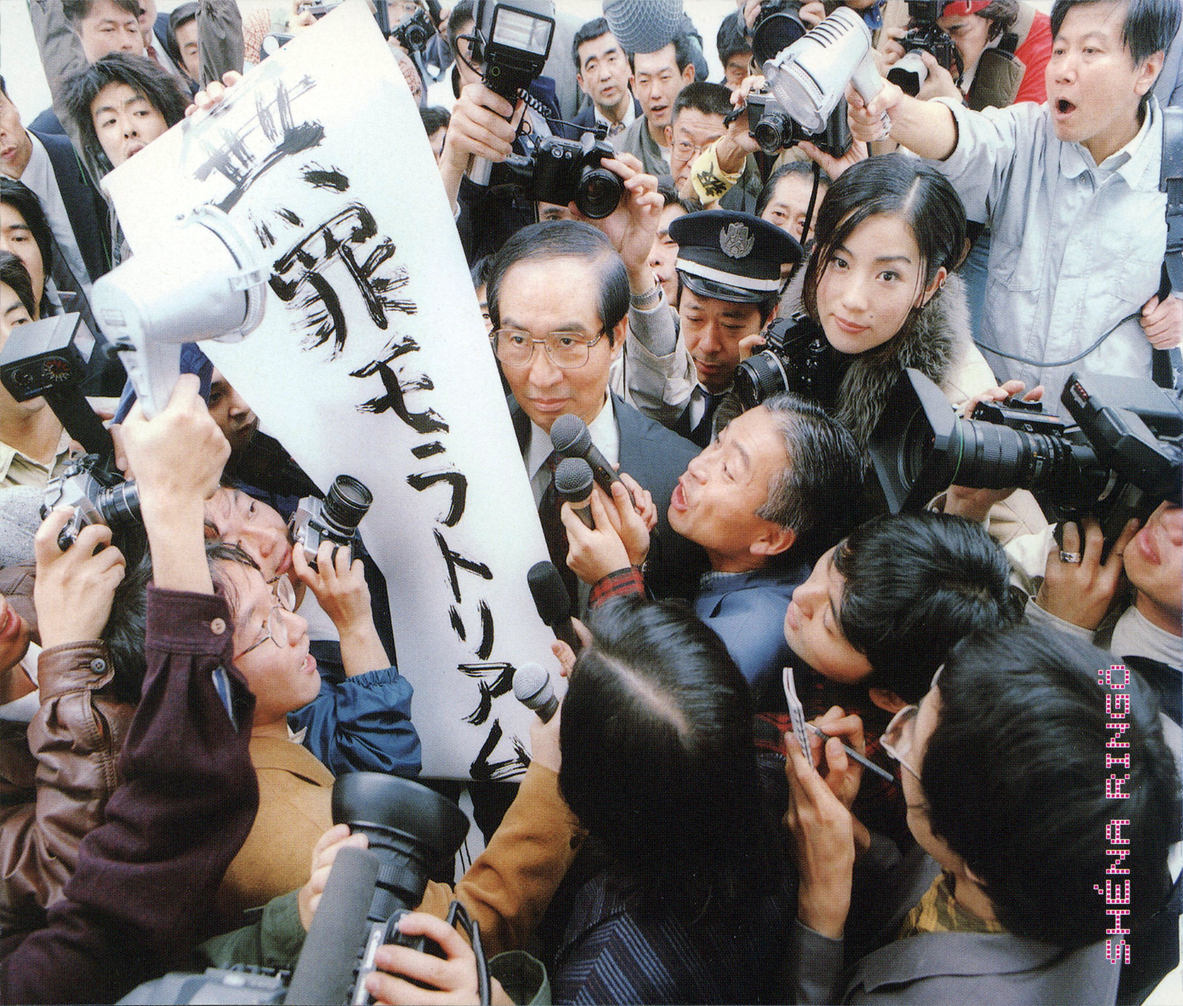
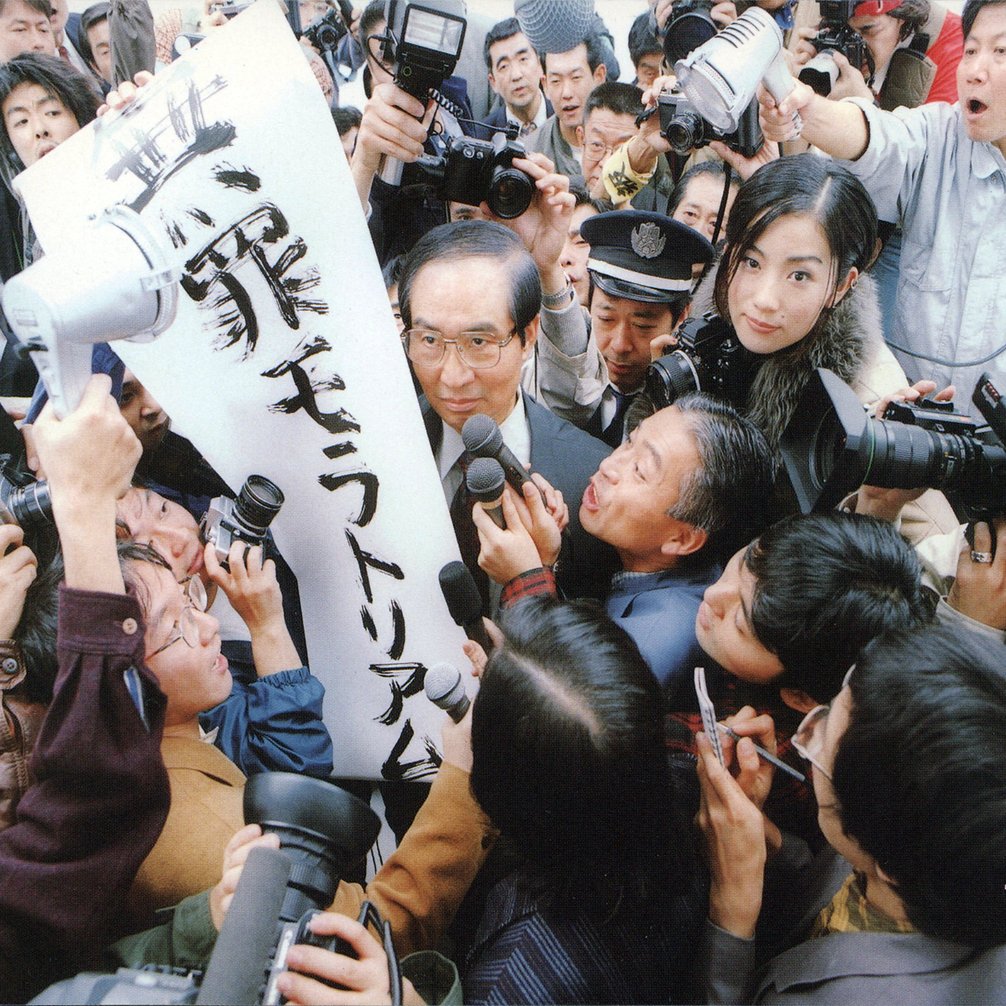
feat(NowPlayingBar): 添加歌词滚动功能并调整列表高度
为歌词部分添加自动滚动功能，当前播放的歌词会平滑滚动到可视区域。同时将歌词列表的最大高度从42vh调整为160px以改善显示效果。

diff --git a/musicos-exhibition/src/components/NowPlayingBar.tsx b/musicos-exhibition/src/components/NowPlayingBar.tsx
@@ -145,6 +145,8 @@ export function NowPlayingBar() {
   const prev = useExhibition((s) => s.prev);
 
   const [expanded, setExpanded] = useState(false);
+  const listRef = useRef<HTMLUListElement | null>(null);
+  const activeItemRef = useRef<HTMLLIElement | null>(null);
 
   const exhibit = exhibits.find((e) => e.position === playingPosition) ?? null;
 
@@ -157,9 +159,20 @@ export function NowPlayingBar() {
   const sections = useMemo(() => splitSections(transcript), [transcript]);
   const startTimes = useMemo(() => sectionStartTimes(sections, duration), [sections, duration]);
 
+  const sectionIdx = startTimes.length > 0 ? activeSectionIdx(startTimes, currentTime) : 0;
+
+  // Scroll the active item into view with ~40px of peek context above it.
+  useEffect(() => {
+    const list = listRef.current;
+    const item = activeItemRef.current;
+    if (!list || !item) return;
+    const PEEK = 40; // px of context to show above the active item
+    const targetScrollTop = item.offsetTop - PEEK;
+    list.scrollTo({ top: targetScrollTop, behavior: 'smooth' });
+  }, [sectionIdx]);
+
   if (!exhibit) return null;
 
-  const sectionIdx = startTimes.length > 0 ? activeSectionIdx(startTimes, currentTime) : 0;
   const currentSection = sections[sectionIdx] ?? '';
 
   const onSeekToSection = (idx: number) => {
@@ -176,9 +189,9 @@ export function NowPlayingBar() {
   return (
     <div className={`npb${expanded ? ' npb--expanded' : ''}`}>
       {expanded && sections.length > 0 && (
-        <ul className="npb__list" aria-label="Transcript sections">
+        <ul ref={listRef} className="npb__list" aria-label="Transcript sections">
           {sections.map((sec, i) => (
-            <li key={i}>
+            <li key={i} ref={i === sectionIdx ? activeItemRef : null}>
               <button
                 type="button"
                 className={`npb__list-item${i === sectionIdx ? ' npb__list-item--active' : ''}`}

diff --git a/musicos-exhibition/src/components/now-playing-bar.css b/musicos-exhibition/src/components/now-playing-bar.css
@@ -164,7 +164,7 @@
   margin: 0 0 12px 0;
   padding: 14px 16px;
   width: 100%;
-  max-height: 42vh;
+  max-height: 160px;
   overflow-y: auto;
   background: transparent;
   border: 1px solid rgba(17, 17, 17, 0.85);
